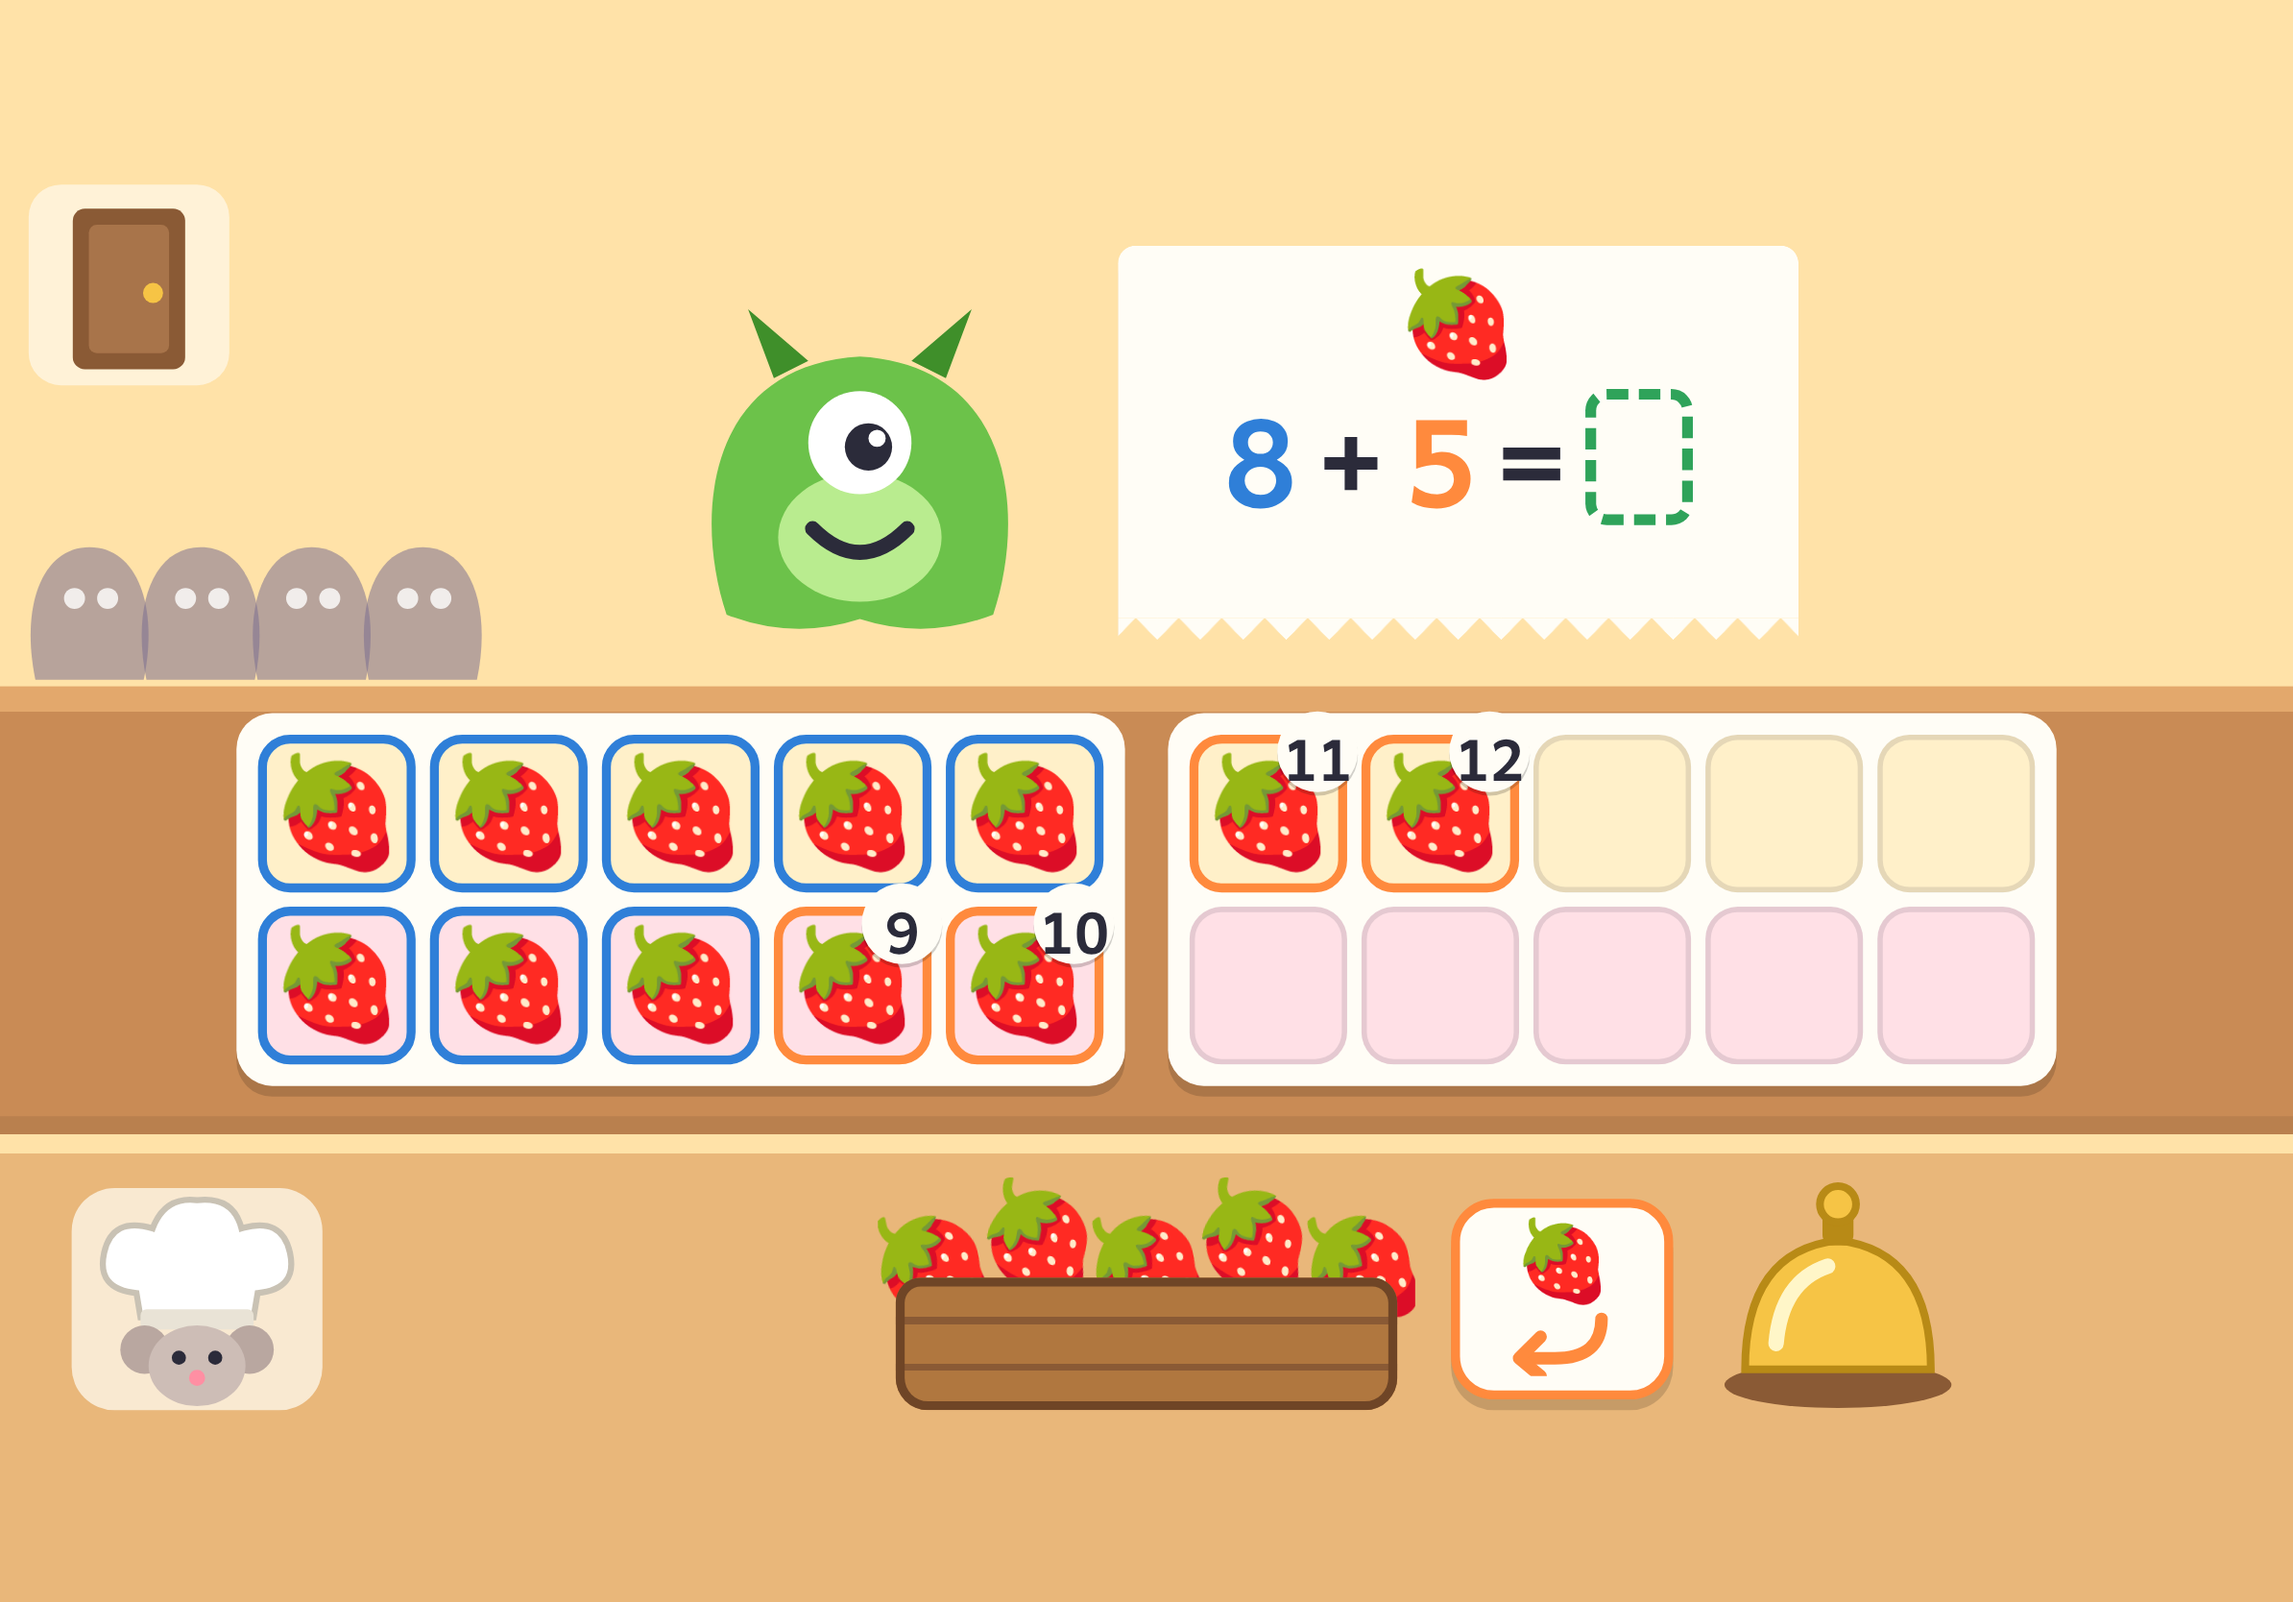
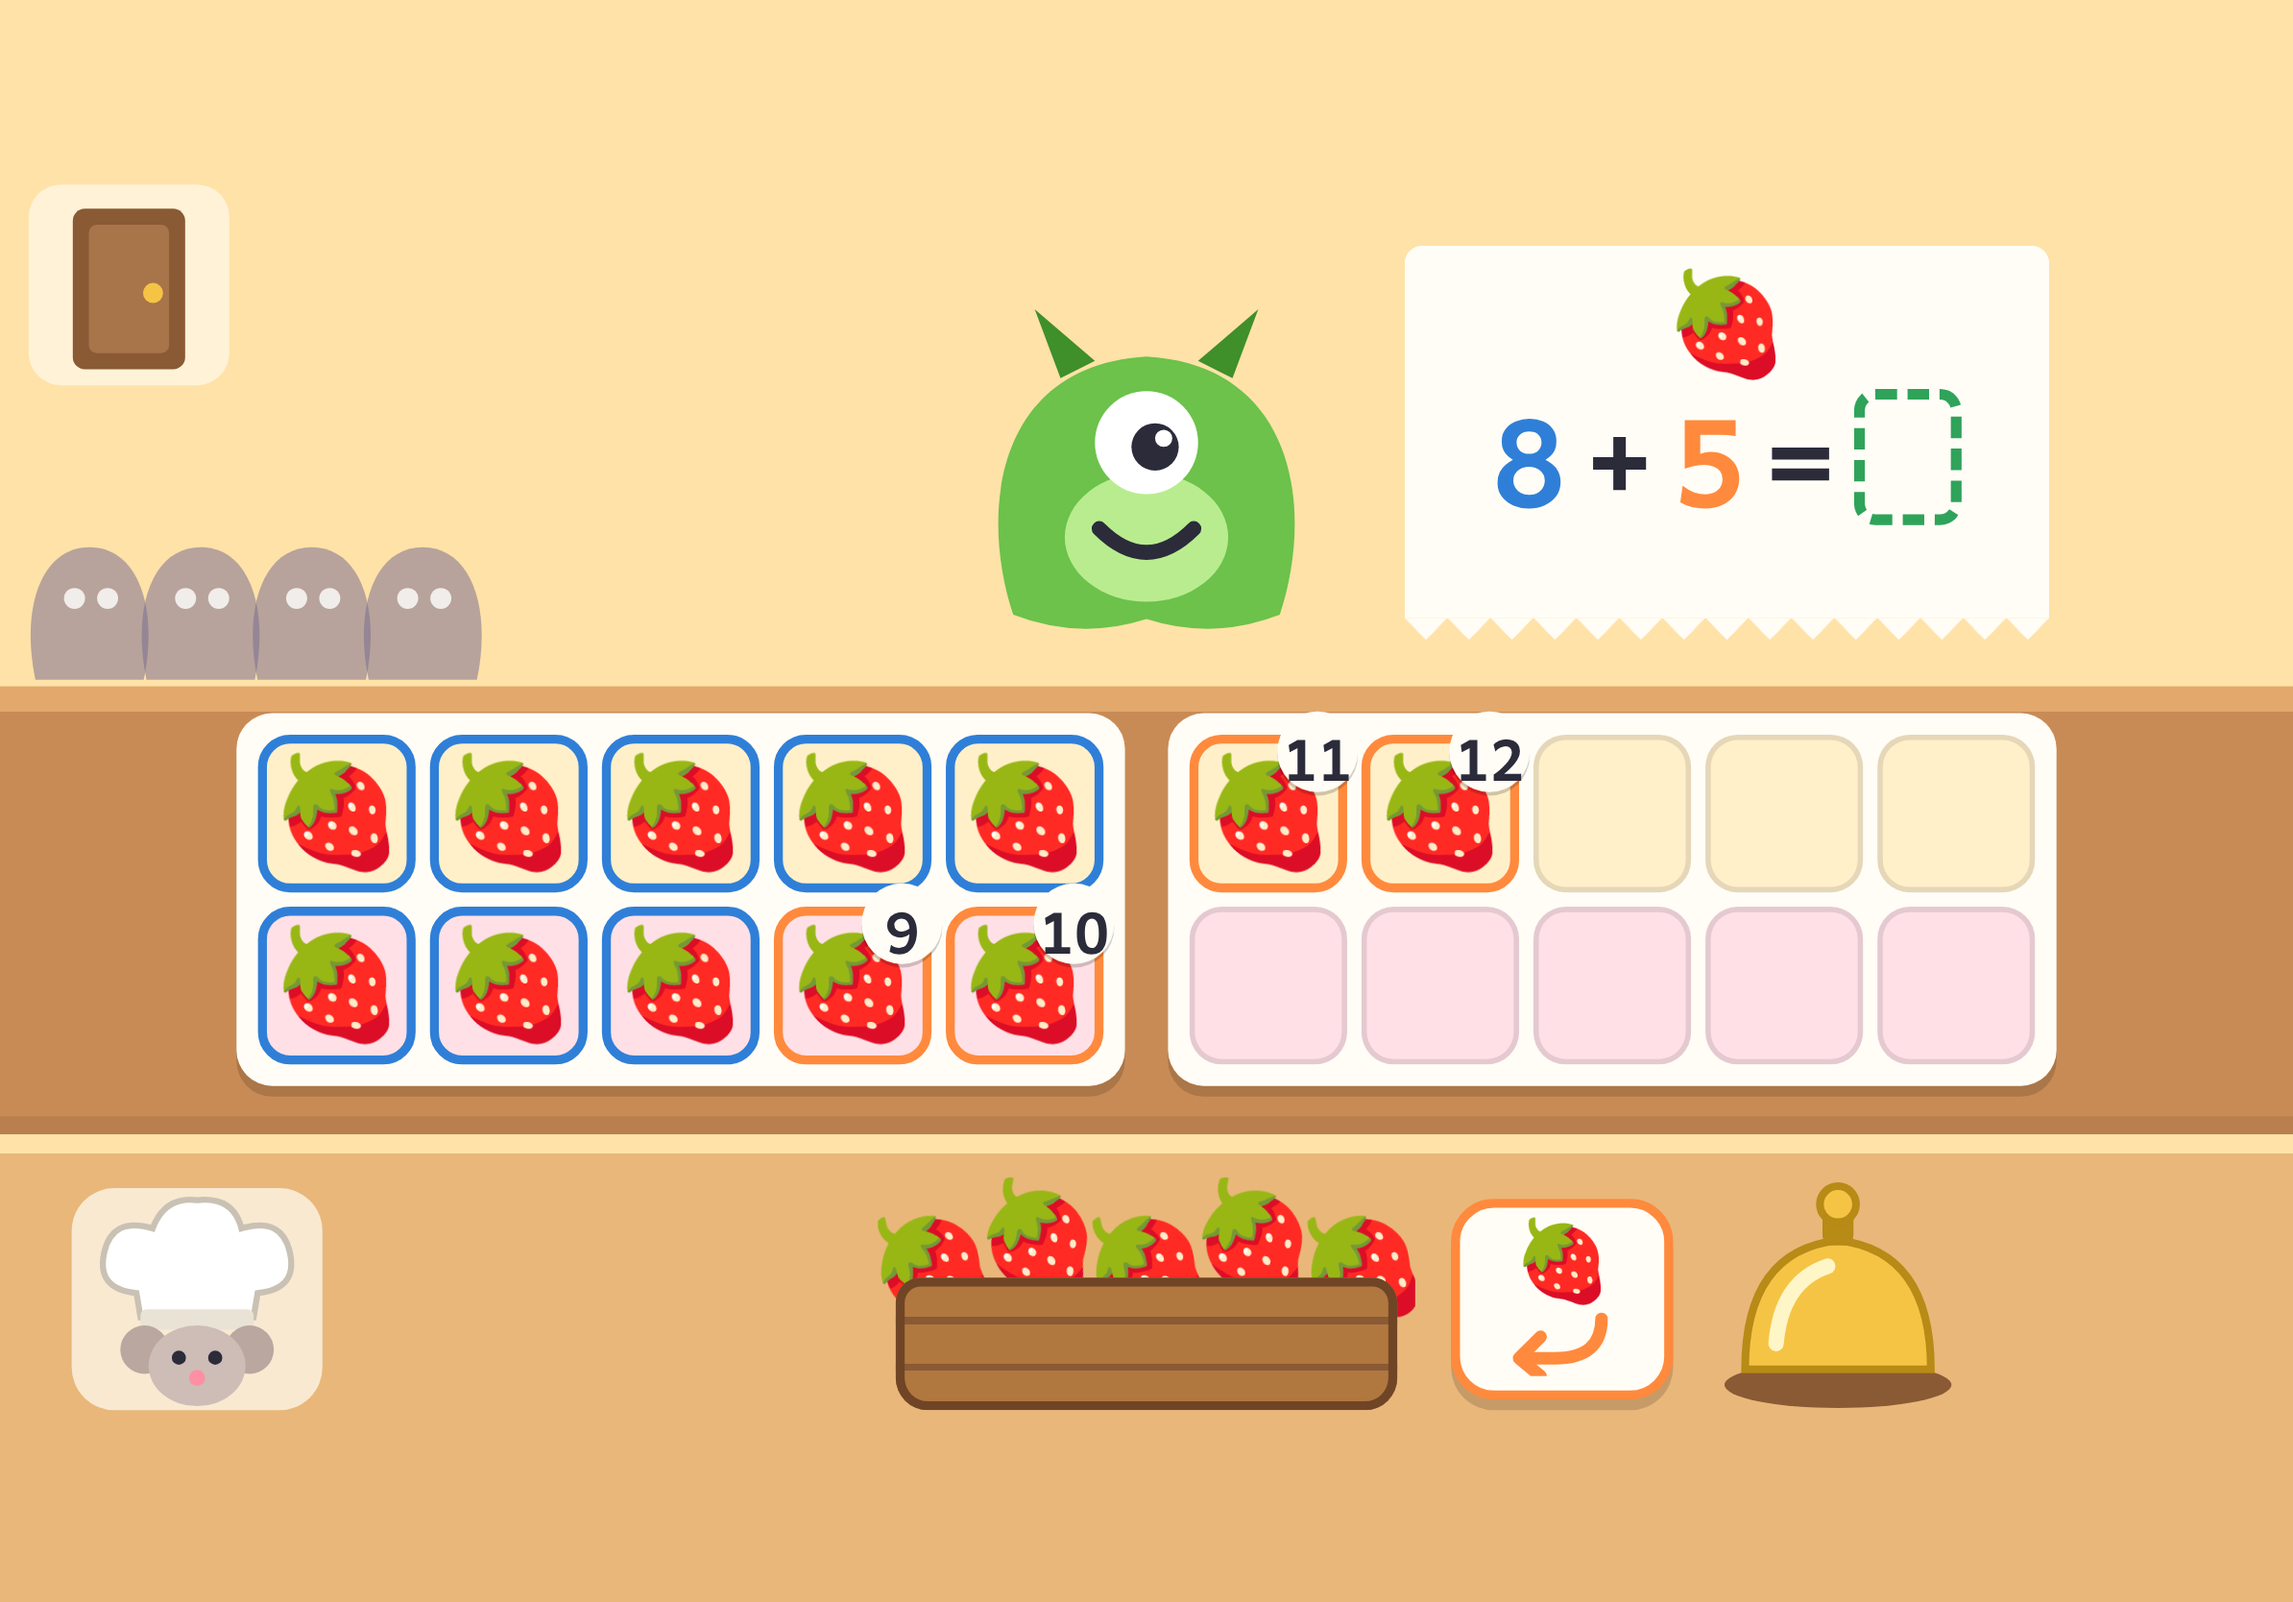
M1 mock rev 4: monster centred, ticket beside it, slides right for CountTogether
Owner review of mock rev 3 (D65): monster back in the centre with the
ticket 24 px to its right; during CountTogether the bubble is centred
over the monster's spot and the ticket slides right to leave room.
SPEC §5.4 updated.

Claude-Session: https://claude.ai/code/session_01CjmpHxQQBqTPvnFEHCg5yV

Changed region(s): [[0.3099, 0.1559, 0.8987, 0.4053]]

diff --git a/src/app/metrics.ts b/src/app/metrics.ts
@@ -53,23 +53,26 @@ const TAKE_BACK: Rect = { x: BIN.x + BIN.w + 20, y: 582, w: 124, h: 112 };
 /** The bell sits right of the bin, or right of "take one back" when that button shows (D64). */
 const bellAfter = (r: Rect): Rect => ({ x: r.x + r.w + 20, y: 562, w: 144, h: 144 });
 const BUBBLE_W = 2 * MINI_FRAME.w + 12 + 16; // two mini frames + gap + padding; used for one frame too
-const MONSTER: Rect = { x: 360, y: 52, w: 240, h: 240 };
-// Top at y 8 so the bubble clears the waiting line's heads (y ≈ 218) on its left.
-const BUBBLE: Rect = { x: MONSTER.x + MONSTER.w - BUBBLE_W + 28, y: 8, w: BUBBLE_W, h: 210 };
+const MONSTER: Rect = { x: centeredX(240), y: 52, w: 240, h: 240 };
+const TICKET_W = 360;
+// Centred over the monster's spot, top at y 8 so it clears the waiting line on the left.
+const BUBBLE: Rect = { x: centeredX(BUBBLE_W), y: 8, w: BUBBLE_W, h: 210 };
 
 /**
- * Service screen layout (SPEC §5.4 as amended by D63/D64; S0 band per D48/D62). Fixed by the M1
- * layout mock. Bands: monster (just left of centre) with the ticket at its right, y 40–300 · tray
- * y 311–519 · bottom y 570–700 (Pip's hat, bin, take one back, bell). The monster stays near the
- * middle so the child feels they are serving it; the ticket sits beside it so order and customer
- * read as one (D64).
+ * Service screen layout (SPEC §5.4 as amended by D63–D65; S0 band per D48/D62). Fixed by the M1
+ * layout mock. Bands: monster (centre) with the ticket right beside it, y 40–300 · tray y 311–519 ·
+ * bottom y 570–700 (Pip's hat, bin, take one back, bell). The monster is in the middle so the child
+ * feels they are serving it; the ticket sits beside it so order and customer read as one (D65).
  */
 export const SERVICE = {
   door: { x: 16, y: 16, w: 112, h: 112 },
   /** Waiting monsters line up by the door, left of the monster at the counter. */
   queue: { x: 0, y: 150, w: 340, h: 150 },
   monsterZone: MONSTER,
-  ticket: { x: MONSTER.x + MONSTER.w + 24, y: 50, w: 380, h: 220 },
+  /** Right beside the centred monster (D65). */
+  ticket: { x: MONSTER.x + MONSTER.w + 24, y: 50, w: TICKET_W, h: 220 },
+  /** During CountTogether the ticket slides right to make room for the bubble (D65). */
+  ticketCounting: { x: STAGE_W - 16 - TICKET_W, y: 50, w: TICKET_W, h: 220 },
   trayFrames1: { x: centeredX(FRAME.w), y: TRAY_TOP, w: FRAME.w, h: FRAME.h },
   trayFrames2: {
     x: centeredX(2 * FRAME.w + FRAMES_GAP),

diff --git a/src/app/mock/LayoutMock.tsx b/src/app/mock/LayoutMock.tsx
@@ -209,7 +209,7 @@ export function LayoutMock({ frame }: { frame: string }) {
         <Chrome>
           <Monster aside />
           <Bubble rect={L.bubble} frames={[numbered(cellsOf('cookie', 5, 3))]} caption="… six, seven, eight!" />
-          <Ticket rect={L.ticket} food="cookie" tokens={[tok('5', 'prefill'), op('+'), tok('3', 'child'), op('='), tok('?', 'result', true)]} />
+          <Ticket rect={L.ticketCounting} food="cookie" tokens={[tok('5', 'prefill'), op('+'), tok('3', 'child'), op('='), tok('?', 'result', true)]} />
           <Frames1 cells={cellsOf('cookie', 5, 2)} />
           <BottomBand food="cookie" />
         </Chrome>
@@ -220,7 +220,7 @@ export function LayoutMock({ frame }: { frame: string }) {
         <Chrome>
           <Monster aside />
           <Bubble rect={L.bubble} frames={[cells.slice(0, 10), cells.slice(10)]} caption="… eleven, twelve, thirteen!" />
-          <Ticket rect={L.ticket} food="strawberry" tokens={[tok('8', 'prefill'), op('+'), tok('5', 'child'), op('='), tok('?', 'result', true)]} />
+          <Ticket rect={L.ticketCounting} food="strawberry" tokens={[tok('8', 'prefill'), op('+'), tok('5', 'child'), op('='), tok('?', 'result', true)]} />
           <Frames2 cells={cellsOf('strawberry', 8, 3)} />
           <BottomBand food="strawberry" />
         </Chrome>

diff --git a/docs/SPEC.md b/docs/SPEC.md
@@ -317,8 +317,8 @@ The café exterior/interior as the owned shop decorations, Pip the guide, coin j
 ### 5.3 Menu board
 Chalkboard with two pages (swipe not required; two big tabs "Little Menu"/"Big Menu"; a tab with no built skill is hidden). Each tile 3×3 (9 on Little, 4 on Big): food icon and a sample sentence in chalk (it shows an example of the operations the parent allowed, e.g. a subtraction for A1 set to subtraction only). This is the start of every play session: the tile for the skill played last glows, and A1 on first run. Parent-hidden skills do not render. Tapping a tile starts a service with that skill.
 ### 5.4 Service screen layout (safe box 1280×720)
-- Monster stands behind the counter just left of centre (x 360–600, y 40–300; D64); queue of waiting monsters waits by the door at the left edge as small silhouettes (one per remaining order; a requeue adds one when it is queued) — the natural end-of-service cue.
-- **Ticket** (paper receipt, right beside the monster, x 624–1004, y 50–270; D64): equation tokens colored **by their role on the tray, not by position** (D30): blue = the prefilled/locked group (at S1/S0, where nothing is prefilled, the group that would be prefilled at S3), orange = the group the child adds or removes, green = the result; so in `? + 4 = 14` the 4 is blue and the blank orange. Also shape-coded by the blank's dashed box so color is never the only cue. Tap ticket → replays spoken sentence. Food icon beside it.
+- Monster stands behind the counter top-centre (x 520–760, y 40–300; D65); queue of waiting monsters waits by the door at the left edge as small silhouettes (one per remaining order; a requeue adds one when it is queued) — the natural end-of-service cue.
+- **Ticket** (paper receipt, right beside the monster, x 784–1144, y 50–270; it slides right to x 904–1264 while the CountTogether bubble shows; D65): equation tokens colored **by their role on the tray, not by position** (D30): blue = the prefilled/locked group (at S1/S0, where nothing is prefilled, the group that would be prefilled at S3), orange = the group the child adds or removes, green = the result; so in `? + 4 = 14` the 4 is blue and the blank orange. Also shape-coded by the blank's dashed box so color is never the only cue. Tap ticket → replays spoken sentence. Food icon beside it.
 - **Tray** on the counter (y 310–520), centered. In add mode a **take one back** button sits beside the bin; for missing-subtrahend forms (`takenAwayRow`) a small taken-away row sits beside the tray (§3.3). Both slots are fixed in the M1 layout mock (§14) and must not shrink the tray or fall below the tap-size minimums.
 - **Bin** bottom-centre under the tray (y 570–700). **Bell** in the bottom band next to the bin: right of *take one back* when it shows, otherwise right of the bin (D64). **Pip's hat button (Help)** bottom-left. **Door sign (leave)** top-left, small: opens "Take a break?" with two 160-px buttons, *Keep cooking* / *Close the café*. *Close the café* writes a partial `serviceEnd` and goes to Home (§5.8). When the back guard opens the dialog on Home, Menu, Results or Shop, it shows only *Keep cooking* and simply dismisses (D46).
 - **First-ever service (tutorial, D26):** before the chosen skill's orders, one warm-up order `2 + 1` (cookies, one ten-frame, S3, whatever skill was picked). If the child has not touched anything after 4 s, a ghost hand taps the bin once to show how items are placed; once the item is on the tray, after 4 more idle seconds the ghost hovers over the bell with a tap motion while Pip says what to do. The bell press is always the child's (never auto-serve). The order pays the usual 3 coins (a `coin` event, §11.2) and writes no `attempt` event. Shown once per device (flag in the `meta` store).

diff --git a/docs/DECISIONS.md b/docs/DECISIONS.md
@@ -313,10 +313,15 @@ What: (a) The **ticket** moves to the centre, straight above the tray (x 450–8
 Why: owner feedback 2026-11-05 on the M1 mock: the problem should be centred above the tray, and the bell next to the tray makes "the bell sends the food" obvious.
 How to revisit: positions are the `SERVICE` table in `src/app/metrics.ts`. If the line by the door reads poorly once monsters walk across (M2), the fallback is a small row of plate icons by the door instead of silhouettes.
 
-**D64. Monster just left of centre with the ticket beside it; bell back in the bottom band next to the bin (amends D63).**
+**D64. Monster just left of centre with the ticket beside it; bell back in the bottom band next to the bin (amends D63; monster, ticket and bubble positions superseded by D65).**
 What: (a) The **monster** stands just left of centre (x 360–600) and the **ticket** sits right beside it (x 624–1004), so customer and order read as one. The waiting line stays by the door on the left. (b) The **bell** returns to the bottom band, always next to the bin: right of **take one back** when that button shows (add mode, x 954–1098), otherwise straight right of the bin (remove mode and S0, x 810–954). At S0 there is no bin on screen, but the bell keeps that same spot so it never jumps around between stages. (c) The two-frame tray (M5) is centred again. (d) The CountTogether bubble now sits over the monster's spot (x 200–628, y 8–218); the monster shrinks below its tail. Unchanged from D63: bin centred under the tray, taken-away row and lifted cloche lid left of the tray, one bubble width for one or two frames.
 Why: owner feedback 2026-11-05 on mock rev 2: the child should feel they are serving the monster, so it belongs near the middle; the bell should sit by the basket, not by the tray or at the far right.
 How to revisit: the `SERVICE` table in `src/app/metrics.ts`.
+
+**D65. Monster centred, ticket right beside it; ticket slides right during CountTogether (amends D64).**
+What: (a) The **monster** is centred (x 520–760). (b) The **ticket** (360 wide) sits 24 px to its right (x 784–1144), the same gap as mock rev 3. (c) During **CountTogether** the bubble is centred over the monster's spot (x 426–854) and the ticket slides right to x 904–1264, leaving a 50 px gap; it slides back afterwards. Unchanged from D64: bell in the bottom band next to the bin (after take one back when that shows), waiting line by the door, bin centred under the tray, taken-away row and cloche lid left of the tray.
+Why: owner feedback 2026-11-05 on mock rev 3: the off-centre monster did not feel right; the bubble and ticket were too close.
+How to revisit: `SERVICE` in `src/app/metrics.ts` (`ticket`, `ticketCounting`, `bubble`).
 
 <!-- New decisions go above this line, numbered one higher than the highest existing D<n>. -->
 
